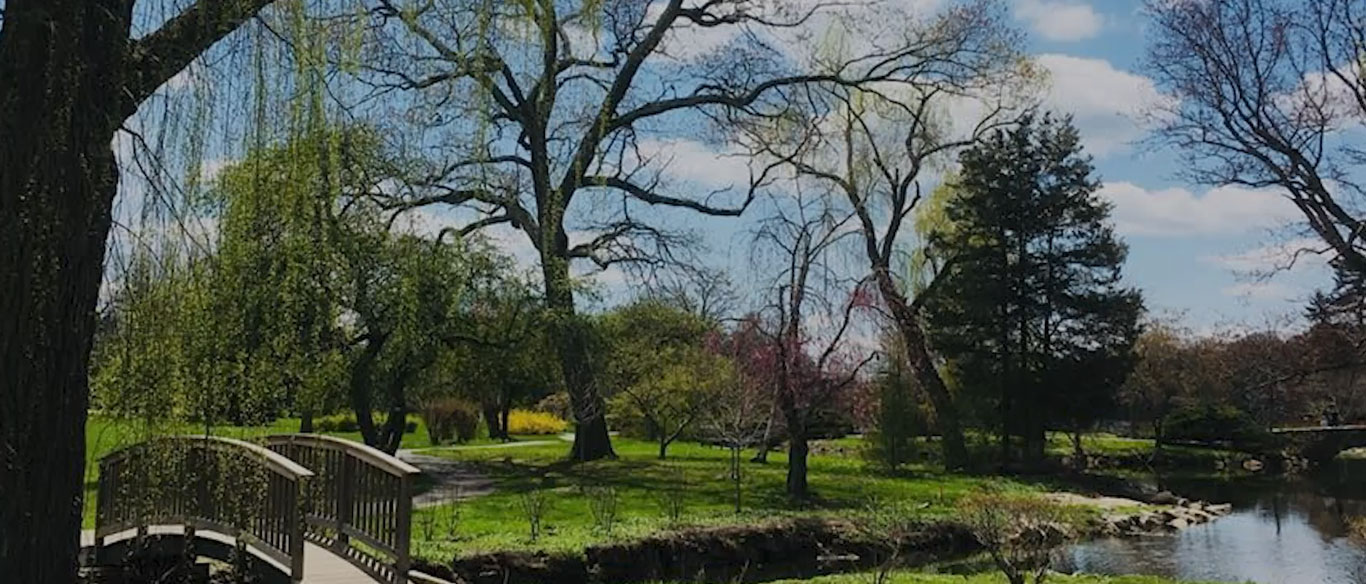
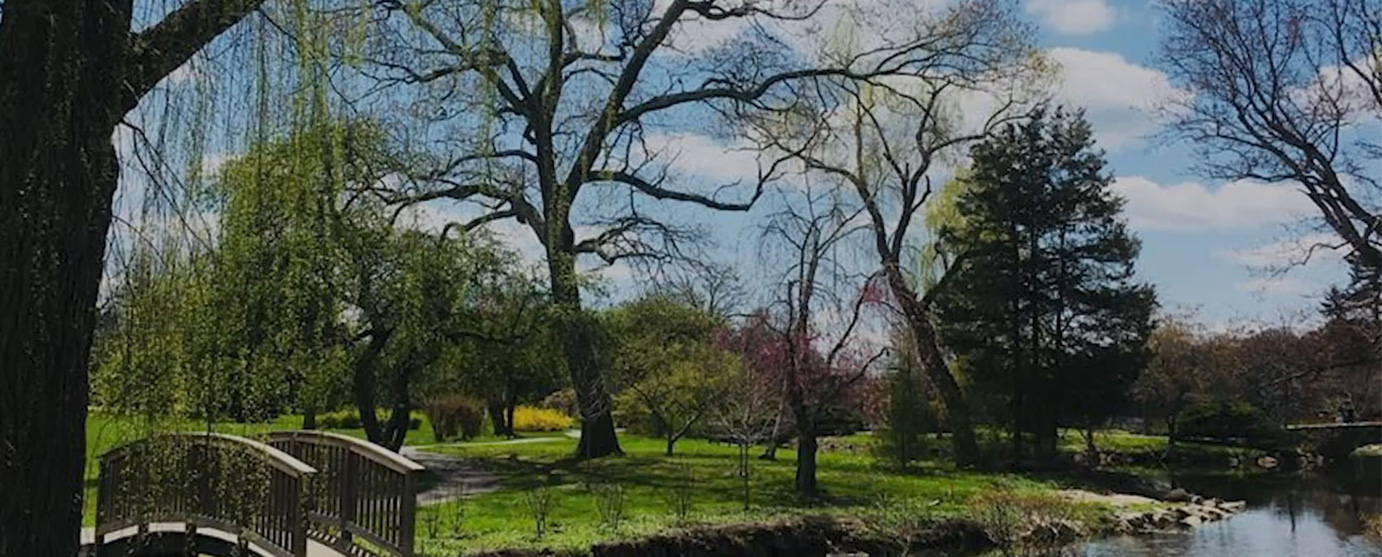
header image and body boackground

diff --git a/assets/css/new-home.css b/assets/css/new-home.css
@@ -7,6 +7,7 @@ body {
   overflow-x: hidden;
   margin: 0;
   padding: 0;
+  background-color: #F7F7F7;
 }
 
 h1,
@@ -186,7 +187,7 @@ h4.h4head {
   }
 }
 .nHome_header .nHome_logo {
-  font-size: 40px;
+  font-size: 37px;
   font-family: "Anton";
   padding: 12px 42px;
   color: #343434;
@@ -209,9 +210,9 @@ h4.h4head {
 /*** Banner **/
 .banner-main {
   text-align: center;
-  background: url(../images/banner01.jpg) no-repeat 50%;
-  background-size: cover;
-  min-height: 571px;
+  background: url(../images/banner01.jpg) no-repeat top center;
+  background-size: 100% 100%;
+  min-height: 542px;
   display: flex;
   justify-content: center;
   align-items: center;

diff --git a/assets/css/new-home.scss b/assets/css/new-home.scss
@@ -83,7 +83,7 @@ h4.h4head{
         justify-content: center;
     }
     .nHome_logo{
-        font-size: 40px;
+        font-size: 37px;
         font-family: $nHomeantonFont;
         padding:12px 42px;
         color: #343434;
@@ -105,9 +105,9 @@ h4.h4head{
 /*** Banner **/
 .banner-main{ 
     text-align: center;
-    background: url(../images/banner01.jpg) no-repeat 50%;
-    background-size: cover;
-    min-height: 571px;
+    background: url(../images/banner01.jpg) no-repeat top center;
+    background-size: 100% 100%;
+    min-height: 542px;
     display: flex;
     justify-content: center;
     align-items: center;

diff --git a/assets/css/helper/_reset.scss b/assets/css/helper/_reset.scss
@@ -6,6 +6,7 @@
     overflow-x: hidden;
     margin: 0;
     padding: 0;
+    background-color: #F7F7F7;
     }
     
     h1,
